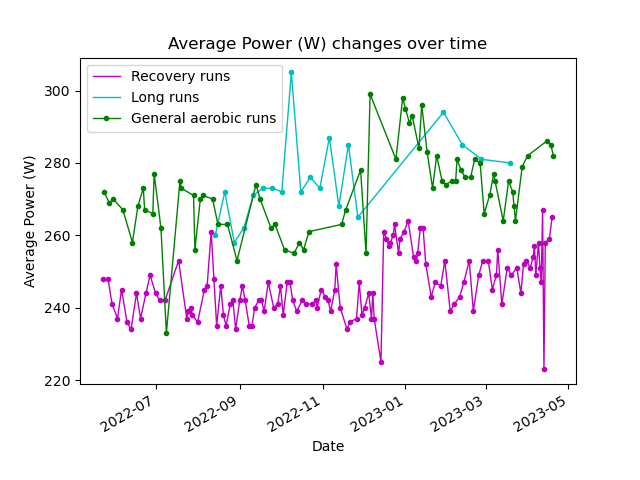
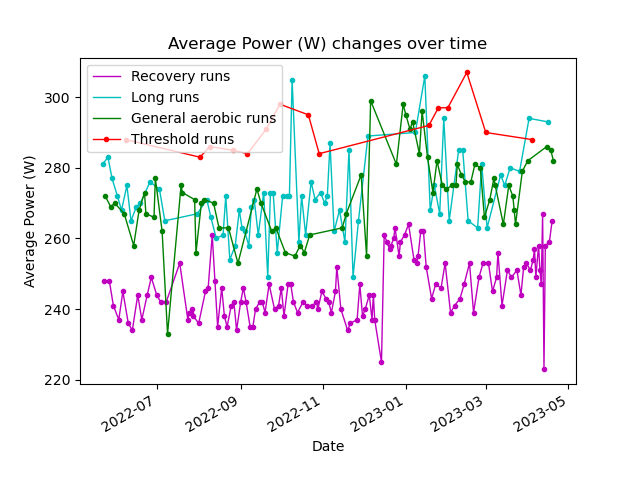
added new run types to averagePower

diff --git a/power.py b/power.py
@@ -68,17 +68,21 @@ def powerVariableByRunType(df, variable):
 	runtype1 = ["Recovery"]
 	df1 = data_manipulations.select_run_type(df, runtype1)
 
-	runtype2 = ["Long run"]
+	runtype2 = ["Long run","Medium long"]
 	df2 = data_manipulations.select_run_type(df, runtype2)
 
 	runtype3 = ["General aerobic"]
 	df3 = data_manipulations.select_run_type(df, runtype3)
 	
+	runtype4 = ["Threshold"]
+	df4 = data_manipulations.select_run_type(df, runtype4)
+
 	fig = plt.figure()
 
 	ax1 = df1[variable].dropna().plot(marker='.', linewidth=1, color='m', legend=True, label="Recovery runs")
 	ax1 = df2[variable].dropna().plot(marker='.', linewidth=1, color='c', legend=True, label="Long runs")
 	ax1 = df3[variable].dropna().plot(marker='.', linewidth=1, color='g', legend=True, label="General aerobic runs")
+	ax1 = df4[variable].dropna().plot(marker='.', linewidth=1, color='r', legend=True, label="Threshold runs")
 
 	plt.title(variable + ' changes over time')
 	plt.xlabel('Date')
